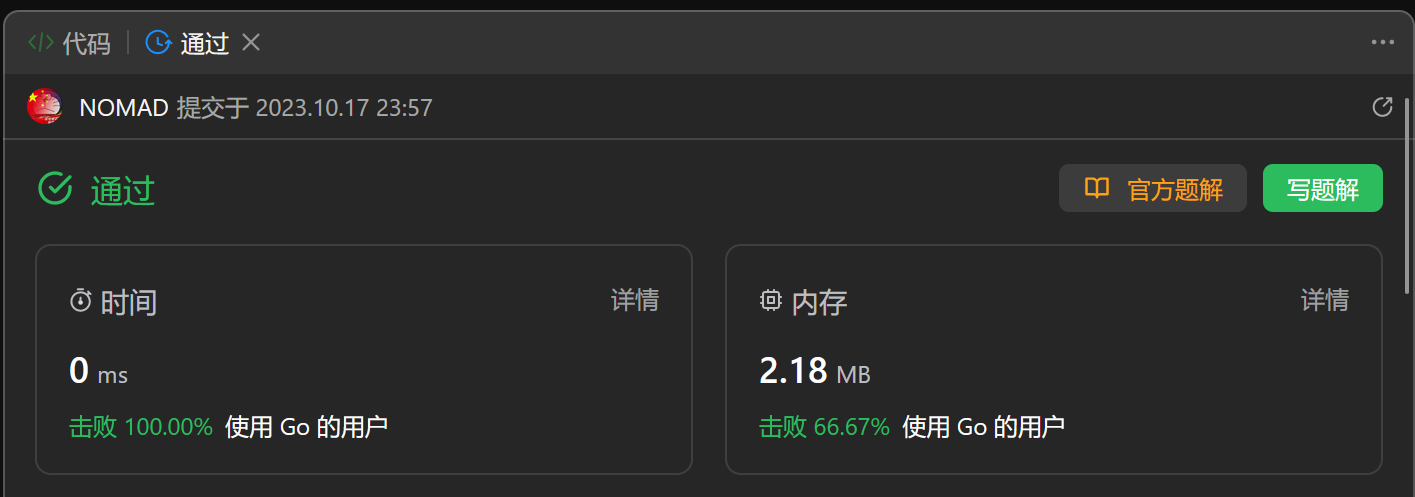
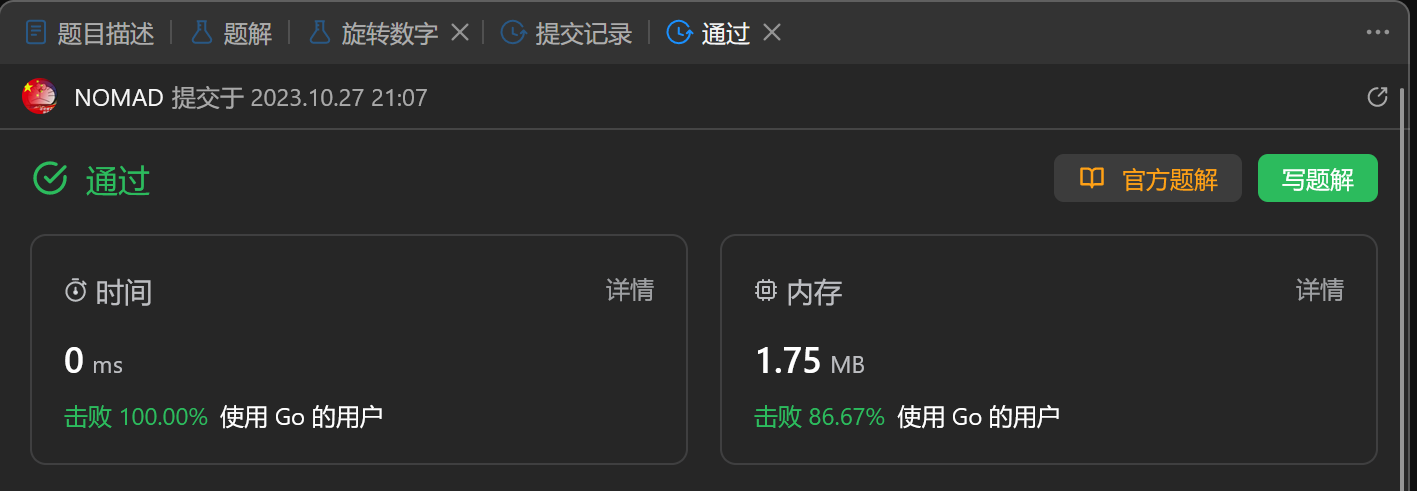
1525

diff --git a/枚举/788/main.go b/枚举/788/main.go
@@ -5,64 +5,10 @@ import (
 	"strconv"
 )
 
-func rotatedDigits1(n int) int {
-
-	w := 0
-	pow := 1
-	for i := n; i > 0; i /= 10 {
-		w++
-		pow *= 10
-	}
-
-	dp := make([][]int, w)
-	for i := 0; i < w; i++ {
-		dp[i] = make([]int, 2)
-	}
-	dp[0][0] = 3
-	dp[0][1] = 4
-
-	ans := 4
-	for i := 1; i < w; i++ {
-		dp[i][0] = dp[i-1][0] * 3
-		dp[i][1] = dp[i-1][1]*7 + dp[i-1][0]*4
-		ans += dp[i][1]
-	}
-
-	invalidLargerMap := []int{2, 1, 1, 1, 1, 1, 1, 1, 0, 0}
-	validLargerMap := []int{4, 4, 3, 3, 3, 2, 1, 1, 1, 0}
-	if w == 1 {
-		return 4 - validLargerMap[n]
-	}
-	flag := false
-	badAns := dp[w-2][1] // 首字母为0的去除
-	for i := 0; i < w; i++ {
-		pow /= 10
-		v := n / pow
-		n -= pow * v
-		if w-2-i >= 0 {
-			if flag {
-				badAns += (invalidLargerMap[v] + validLargerMap[v]) * (dp[w-2-i][1] + dp[w-2-i][0])
-			} else {
-				badAns += invalidLargerMap[v]*dp[w-2-i][1] + validLargerMap[v]*(dp[w-2-i][1]+dp[w-2-i][0])
-			}
-		} else {
-			if flag {
-				badAns += invalidLargerMap[v] + validLargerMap[v]
-			} else {
-				badAns += validLargerMap[v]
-			}
-		}
-		if v == 5 || v == 2 || v == 6 || v == 9 {
-			flag = true
-		}
-
-	}
-	return ans - badAns
-}
-
 var check = [10]int{0, 0, 1, -1, -1, 1, 1, -1, 0, 1}
 
-func rotatedDigits(n int) (ans int) {
+// 枚举
+func rotatedDigits1(n int) (ans int) {
 	for i := 1; i <= n; i++ {
 		valid, diff := true, false
 		for _, c := range strconv.Itoa(i) {
@@ -77,6 +23,49 @@ func rotatedDigits(n int) (ans int) {
 		}
 	}
 	return
+}
+
+//数位dp
+func dfs(preValid bool, preLimit bool, target []int, pos int, ntype []int) int {
+	if pos == len(target) {
+		if preValid {
+			return 1
+		} else {
+			return 0
+		}
+	}
+	ans := 0
+	top := 9
+	if preLimit {
+		top = target[pos]
+	}
+	for i := 0; i <= top; i++ {
+		nextLimit := false
+		if i == top && preLimit {
+			nextLimit = true
+		}
+		if ntype[i] == 0 {
+			ans += dfs(preValid, nextLimit, target, pos+1, ntype)
+		} else if ntype[i] == 1 {
+			ans += dfs(true, nextLimit, target, pos+1, ntype)
+		}
+	}
+	return ans
+}
+
+func rotatedDigits(n int) (ans int) {
+	var w int
+	for i := n; i > 0; i /= 10 {
+		w++
+	}
+	target := make([]int, w)
+
+	for i := 0; i < w; i++ {
+		target[w-1-i] = n % 10
+		n /= 10
+	}
+
+	return dfs(false, true, target, 0, []int{0, 0, 1, -1, -1, 1, 1, -1, 0, 1})
 }
 
 func main() {

diff --git a/动态规划/1525/main.go b/动态规划/1525/main.go
@@ -1,0 +1,38 @@
+package main
+
+import "fmt"
+
+func numSplits(s string) int {
+	m := len(s)
+	dpLeft, dpRight := make([]int, m), make([]int, m)
+	dpLeft[0] = 1
+	dpRight[m-1] = 1
+
+	mapLeft := map[byte]bool{s[0]: true}
+	mapRight := map[byte]bool{s[m-1]: true}
+
+	for i := 1; i < m; i++ {
+		i_ := m - 1 - i
+		dpLeft[i] = dpLeft[i-1]
+		dpRight[i_] = dpRight[i_+1]
+		if !mapLeft[s[i]] {
+			dpLeft[i]++
+			mapLeft[s[i]] = true
+		}
+		if !mapRight[s[i_]] {
+			dpRight[i_]++
+			mapRight[s[i_]] = true
+		}
+	}
+	ans := 0
+	for i := 0; i < m-1 && dpLeft[i] <= dpRight[i+1]; i++ {
+		if dpLeft[i] == dpRight[i+1] {
+			ans++
+		}
+	}
+	return ans
+}
+
+func main() {
+	fmt.Println(numSplits("aacaba"))
+}

diff --git a/动态规划/README.md b/动态规划/README.md
@@ -25,8 +25,9 @@
 |----------------------------------------------------------------------------|-----------------------------------------|-------------------------------------------------------------------------------|
 | [764. 最大加号标志](https://leetcode.cn/problems/largest-plus-sign/description/) | 分成四个方向分别求解                              | [我的提交](https://leetcode.cn/problems/largest-plus-sign/submissions/473771185/) |
 | [838. 推多米诺](https://leetcode.cn/problems/push-dominoes/description/)   | 分成两个个方向分别转移                             | [我的提交](https://leetcode.cn/problems/push-dominoes/submissions/476039969/) |
-| [1031. 两个非重叠子数组的最大和](https://leetcode.cn/problems/maximum-sum-of-two-non-overlapping-subarrays/description/)   | 仅对[i:]区间内长度为firstlen和secondLen的最大长度状态转移 | [我的提交](https://leetcode.cn/problems/maximum-sum-of-two-non-overlapping-subarrays/submissions/477055048/) |
-| [1139. 最大的以 1 为边界的正方形](https://leetcode.cn/problems/largest-1-bordered-square/submissions/477414200/)   | 分别求解四个方向连续1的个数   | [我的提交](https://leetcode.cn/problems/largest-1-bordered-square/submissions/477414200/) |
+| [1031. 两个非重叠子数组的最大和](https://leetcode.cn/problems/maximum-sum-of-two-non-overlapping-subarrays/description/)  | 仅对(i:)区间内长度为firstlen和secondLen的最大长度状态转移 | [我的提交](https://leetcode.cn/problems/maximum-sum-of-two-non-overlapping-subarrays/submissions/477055048/) |
+| [1139. 最大的以 1 为边界的正方形](https://leetcode.cn/problems/largest-1-bordered-square/submissions/477414200/)  | 分别求解四个方向连续1的个数                          | [我的提交](https://leetcode.cn/problems/largest-1-bordered-square/submissions/477414200/) |
+| [1525. 字符串的好分割数目](https://leetcode.cn/problems/number-of-good-ways-to-split-a-string/description/)   | 分别求解i左右边不同字符的个数                         | [我的提交](https://leetcode.cn/problems/number-of-good-ways-to-split-a-string/submissions/477773727/) |
 
 > 2> 使用两个变量滚动记录 dp，优化空间
 >
@@ -46,9 +47,9 @@
 | [740. 删除并获得点数](https://leetcode.cn/problems/delete-and-earn/description/)                          | 排序后划分 是/否 选择当前数 2 个状态                                          | [我的提交](https://leetcode.cn/problems/delete-and-earn/submissions/474333479/)                                      |
 | [926. 将字符串翻转到单调递增](https://leetcode.cn/problems/flip-string-to-monotone-increasing/description/)   | 当前位分别为 '0','1' 时符合条件的最优值                                       | [我的提交](https://leetcode.cn/problems/flip-string-to-monotone-increasing/submissions/476950683/)                   |
 | [935. 骑士拨号器](https://leetcode.cn/problems/knight-dialer/description/)                              | 长度为i的号码划分成从0~9开始的10个子状态，每个子状态之间通过马字形转移                         | [我的提交](https://leetcode.cn/problems/knight-dialer/submissions/476959108/)                                        |
-| [1155. 掷骰子等于目标和的方法数](https://leetcode.cn/problems/number-of-dice-rolls-with-target-sum/description/) | dp[i][j]表示第i次累计和为j的种类数，1=<j<=target                            | [我的提交](https://leetcode.cn/problems/number-of-dice-rolls-with-target-sum/submissions/477465423/)                 |
-| [1186. 删除一次得到子数组最大和](https://leetcode.cn/problems/maximum-subarray-sum-with-one-deletion/description/)     | dp[i][0],dp[i][1]分别表示前i个元素，删除和不删元素的最大子数组和                      | [我的提交](https://leetcode.cn/problems/number-of-dice-rolls-with-target-sum/submissions/477465423/)                 |
-| [1262. 可被三整除的最大和](https://leetcode.cn/problems/greatest-sum-divisible-by-three/description/)           | dp[i][0],dp[i][1], dp[i][2]分别表示前i个元素%3的最大和                     | [我的提交](https://leetcode.cn/problems/greatest-sum-divisible-by-three/submissions/477510062/)                 |
+| [1155. 掷骰子等于目标和的方法数](https://leetcode.cn/problems/number-of-dice-rolls-with-target-sum/description/) | dp(i)(j)表示第i次累计和为j的种类数，1=<j<=target                            | [我的提交](https://leetcode.cn/problems/number-of-dice-rolls-with-target-sum/submissions/477465423/)                 |
+| [1186. 删除一次得到子数组最大和](https://leetcode.cn/problems/maximum-subarray-sum-with-one-deletion/description/)     | dp(i)(0),dp(i)(1)分别表示前i个元素，删除和不删元素的最大子数组和                      | [我的提交](https://leetcode.cn/problems/number-of-dice-rolls-with-target-sum/submissions/477465423/)                 |
+| [1262. 可被三整除的最大和](https://leetcode.cn/problems/greatest-sum-divisible-by-three/description/)           | dp(i)(0),dp(i)(1), dp(i)(2)分别表示前i个元素%3的最大和                     | [我的提交](https://leetcode.cn/problems/greatest-sum-divisible-by-three/submissions/477510062/)                 |
 | [1504. 统计全 1 子矩形](https://leetcode.cn/problems/count-submatrices-with-all-ones/description/)                 | dp(i,j,h) 表示右下端点为ij, 高度为h的矩形的最大宽度， dp(i,j,h) = dp(i,j-1,h) + 1 | [我的提交](https://leetcode.cn/problems/count-submatrices-with-all-ones/submissions/477754022/)                 |
 
 > 4> 可对状态进行分类（26个字母等）从而大大降低算法复杂度
@@ -85,7 +86,7 @@
 |----------------------------------------------------------------------|-------------------------------------------|-------------------------------------------------------------------------------|
 | [486. 预测赢家](https://leetcode.cn/problems/predict-the-winner/description/) | 抽象成当前用户和下一用户之间的状态转移，利用区间类型动态规划            | [我的提交](https://leetcode.cn/problems/predict-the-winner/submissions/476010042/) |
 | [464. 我能赢吗](https://leetcode.cn/problems/can-i-win/description/) | 类似的思路，使用记忆化搜索的方法                          | [我的提交](https://leetcode.cn/problems/can-i-win/submissions/466755816/) |
-| [1140. 石子游戏 II](https://leetcode.cn/problems/stone-game-ii/description/) | dp[i][j] 表示玩家在stones[i:]开始选择，M=j时能获得的最多分数 | [我的提交](https://leetcode.cn/problems/stone-game-ii/submissions/477461605/) |
+| [1140. 石子游戏 II](https://leetcode.cn/problems/stone-game-ii/description/) | dp(i)(j) 表示玩家在stones(i:)开始选择，M=j时能获得的最多分数 | [我的提交](https://leetcode.cn/problems/stone-game-ii/submissions/477461605/) |
 
 > 9> 当前状态可能由前面一个或多个特定状态转移得到，根据题目条件分析
 >

diff --git a/深度优先/README.md b/深度优先/README.md
@@ -1,0 +1,36 @@
+## 枚举
+
+### 1. 概念
+数位DP其实就是一种优化之后的暴力枚举方法，有点类似于记忆化搜索。字面意思是就是在数位上进行DP枚举，对于数字的每一位进行枚举，通过相应的约束条件看这次枚举是否符合题意。
+
+对于有一类题型：给定闭区间 \[l, r\]，需要求出区间中满足某种条件的数的总数，这个区间如果比较大，是无法通过简单的暴力枚举解决的，这时候就需要使用数位DP加以优化，具体通过 [2376. 统计特殊整数](https://leetcode.cn/problems/count-special-integers/) 来理解一下，主要参考灵神的 [视频讲解](https://www.bilibili.com/video/BV1rS4y1s721/?vd_source=286032bc2c5715c8b50b608028ce57df)
+
+
+
+
+### 2. 解题技巧（我的总结）
+
+> 1> 数位DP，求小于N的符合条件的数的个数，注意以下几点：
+> 用一个 target数组 存储N的每一位
+> 用一个 preLimit 变量表示前面的是否处于临界状态，当且仅当preLimit为true且当前位到达target对应位时，nextLimit为true
+> 用一个 pos 表示当前处理到数字的第多少位，pos到len(target)时结束递归
+> 
+> 
+| 题目                                                                   | 说明                          | 实现                                                                            |
+|----------------------------------------------------------------------|-----------------------------|-------------------------------------------------------------------------------|
+| [788. 旋转数字](https://leetcode.cn/problems/rotated-digits/description/) | dp时用preValid表示前面是否已经含有2569  | [我的提交](https://leetcode.cn/problems/rotated-digits/description/) |
+| [2376. 统计特殊整数](https://leetcode.cn/problems/count-special-integers/description/) | 使用一个mark，第i位标记i是否被使用，从而压缩状态 | [我的提交](https://leetcode.cn/problems/count-special-integers/submissions/473515507/) |
+
+
+### 3. 更多练习
+- [ ] [233. 数字 1 的个数](https://leetcode.cn/problems/number-of-digit-one/)：[题解](https://leetcode.cn/problems/number-of-digit-one/solution/by-endlesscheng-h9ua/)
+- [ ] [面试题 17.06. 2出现的次数](https://leetcode.cn/problems/number-of-2s-in-range-lcci/)：[题解](https://leetcode.cn/problems/number-of-2s-in-range-lcci/solution/by-endlesscheng-x4mf/)
+- [ ] [600. 不含连续1的非负整数](https://leetcode.cn/problems/non-negative-integers-without-consecutive-ones/)：[题解](https://leetcode.cn/problems/non-negative-integers-without-consecutive-ones/solution/by-endlesscheng-1egu/)
+- [x] [902. 最大为 N 的数字组合](https://leetcode.cn/problems/numbers-at-most-n-given-digit-set/)
+- [ ] 1012.至少有 1 位重复的数字
+- [ ] 1067.范围内的数字计数
+- [ ] 1397.找到所有好字符串（有难度，需要结合一个知名字符串算法）
+
+### 4. 参考
+1. [数位DP学习整理——数位DP看完这篇你就会了 CSDN](https://blog.csdn.net/hzf0701/article/details/116717851)
+2. [数位 DP 通用模板，附题单（Python/Java/C++/Go）-- 0x3F](https://leetcode.cn/problems/count-special-integers/solution/shu-wei-dp-mo-ban-by-endlesscheng-xtgx/)

diff --git a/动态规划/1525/README.md b/动态规划/1525/README.md
@@ -1,0 +1,4 @@
+##### [题目](https://leetcode.cn/problems/number-of-good-ways-to-split-a-string/description/)
+![pic](img.png)
+##### 结果：
+![pic](result.png)
